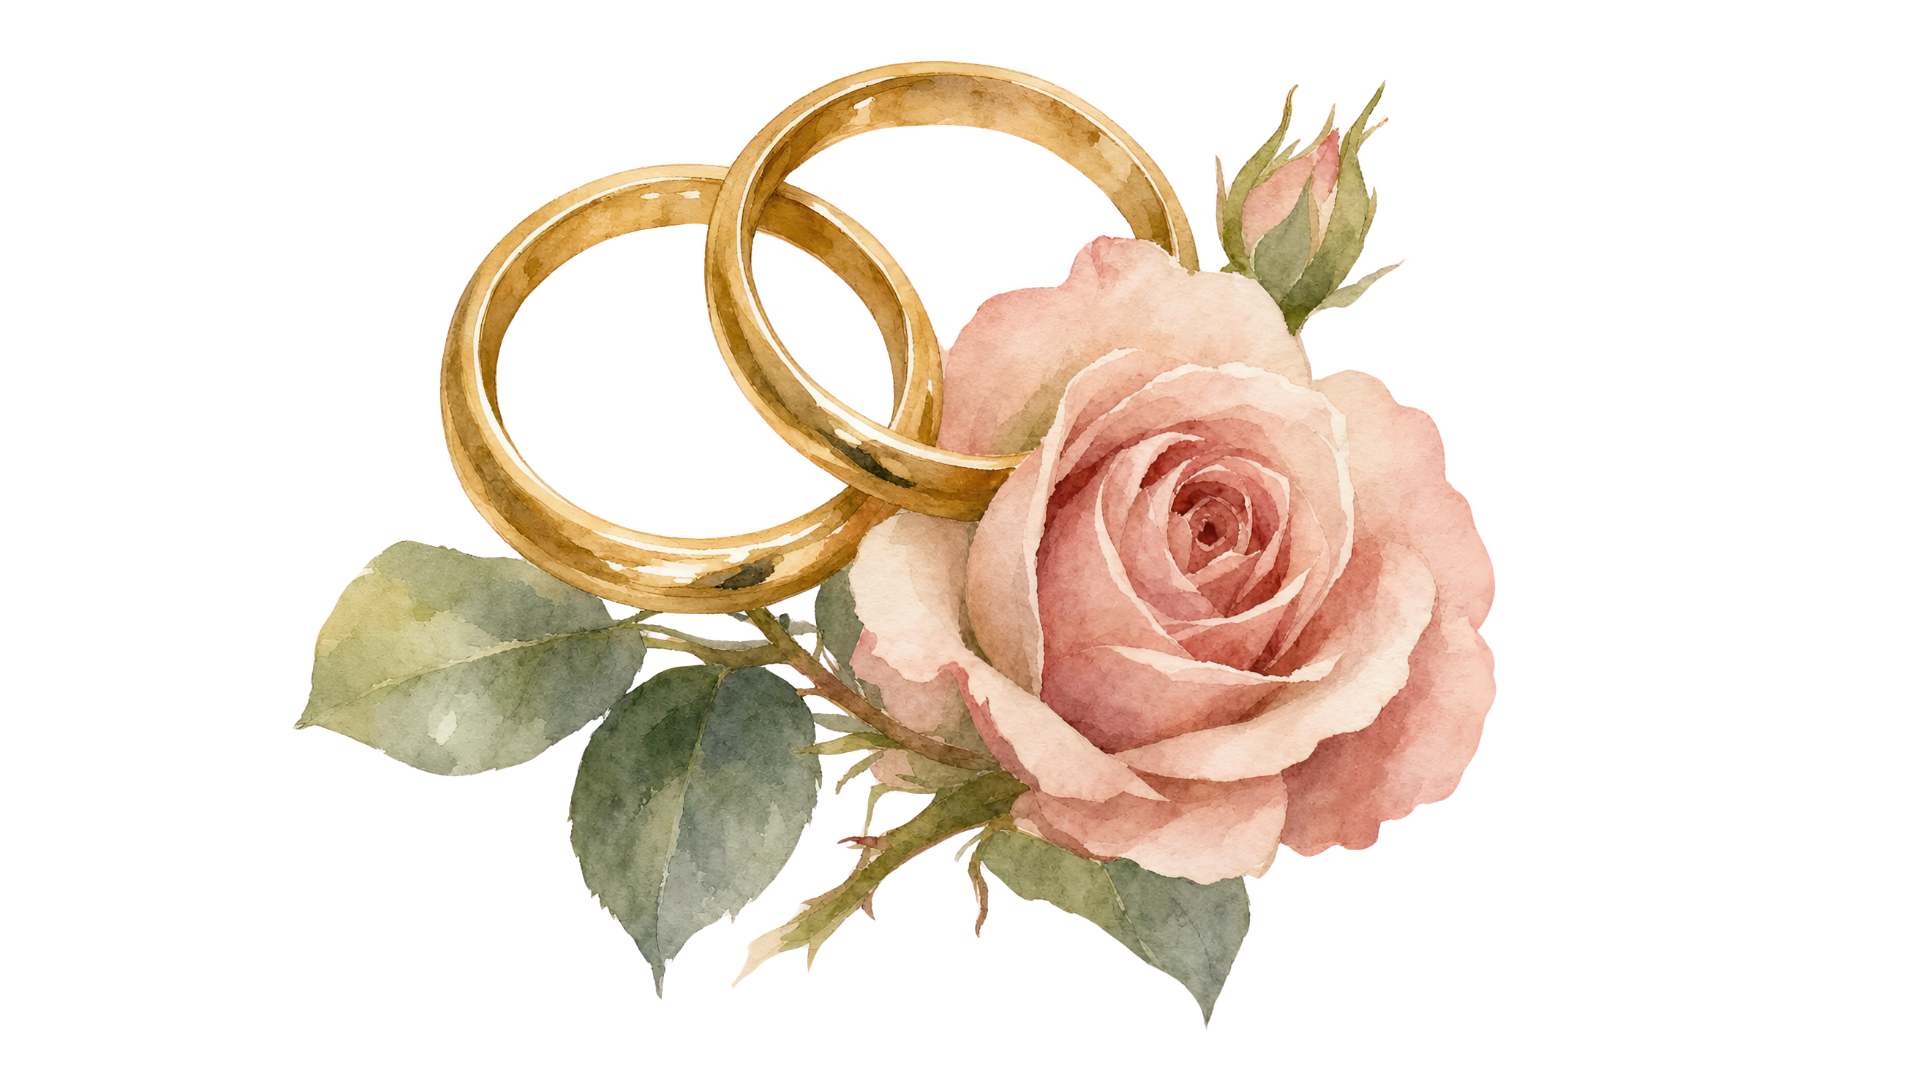
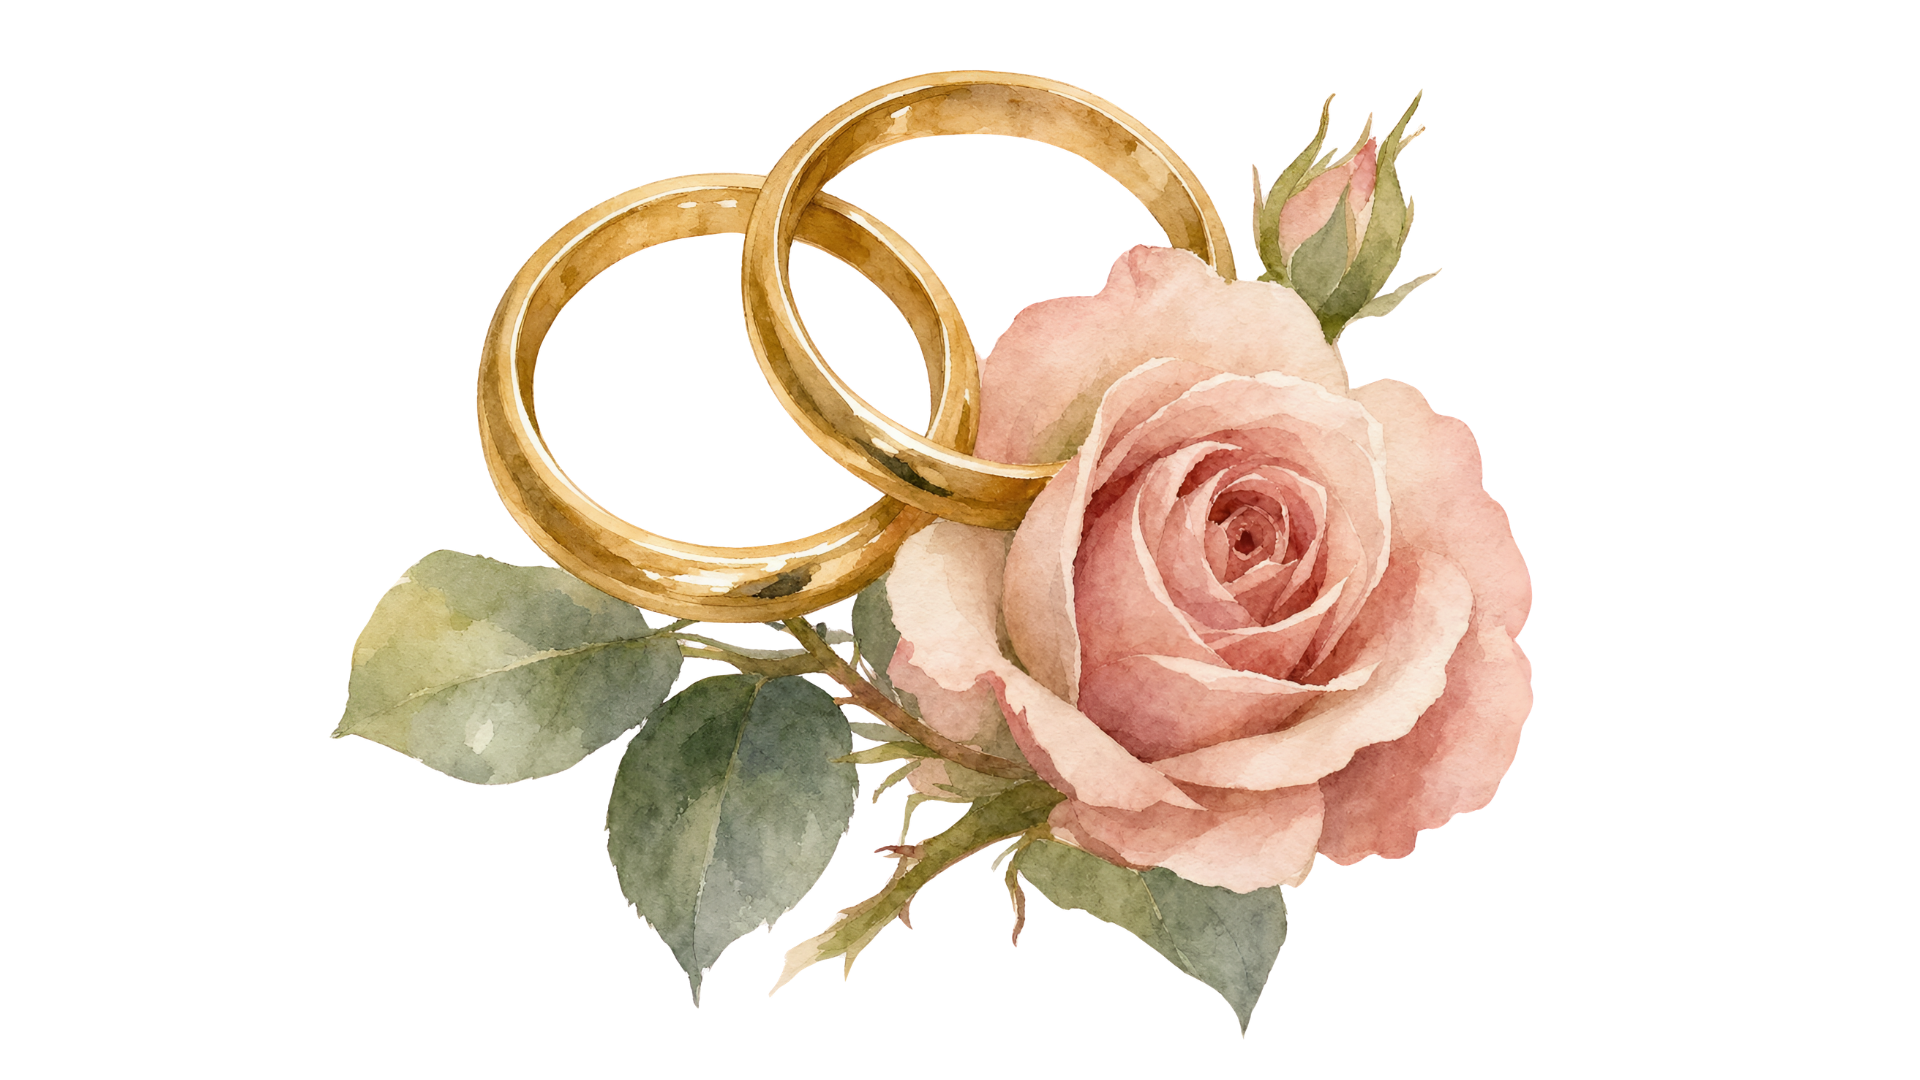
Arreglos

Changed region(s): [[0.1562, 0.0306, 0.8125, 0.9472]]

diff --git a/src/data/InfoBoda.js b/src/data/InfoBoda.js
@@ -2,7 +2,7 @@ import heroImage from '../img/hero.jpg'; // Asegúrate que esta ruta sea correct
 import ringImage from '../img/ring.png'; // Asegúrate que esta ruta sea correcta
 import sobre from '../img/sobre.png'; // Asegúrate que esta ruta sea correcta
 import sobre2 from '../img/sobre2.png'; // Asegúrate que esta ruta sea correcta
-import marcoSobre from '../img/decoSobre-total.png'; // Asegúrate que esta ruta sea correcta*/
+import marcoSobre from '../img/deco-sobre4-invertido.png'; // Asegúrate que esta ruta sea correcta*/
 
 export const BODA_INFO = {
 
